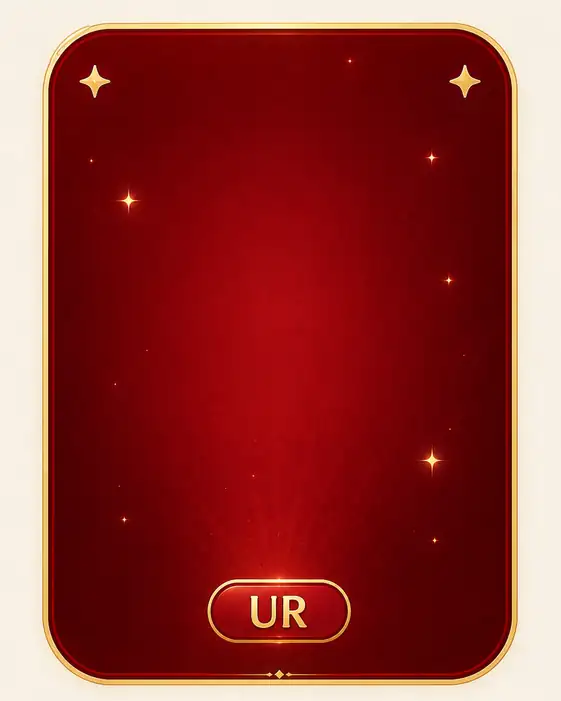
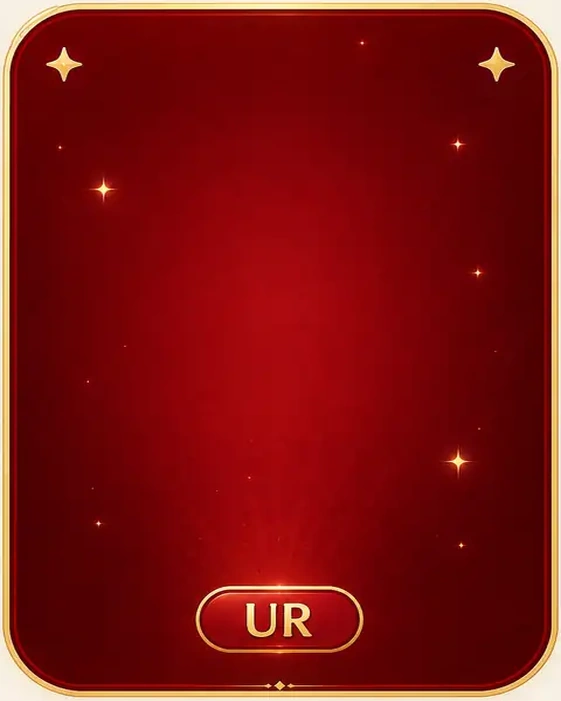
N/R/SR/SSR/UR画像から余白をトリミングし、CSS側の歪む拡大率を全レアリティ廃止
各フレーム画像に焼き込まれていた不透明なクリーム色の余白（縦横7〜9%程度、
四隅の丸みの外側含む）を色差分で検出してトリミングし、561x701キャンバスに
リサイズし直した。これにより「余白を消すため」だけに使われていた
scaleX(1.18) scaleY(1.06)という横方向だけ大きい非対称倍率が不要になったため、
全レアリティ共通で歪みのない均等倍率scale(1.02)に統一した。

diff --git a/src/components/collection/collection-ui.tsx b/src/components/collection/collection-ui.tsx
@@ -57,18 +57,18 @@ const RARITY_FRAME_PATHS: Record<GachaRarity, string> = {
 };
 
 /**
- * フレーム画像を敷くときの拡大率。N〜URの画像は不透明なクリーム色の
- * 余白が絵の中に焼き込まれており（透過ではない）、scaleX(1.18) scaleY(1.06)
- * はその余白を除去するために正しくチューニングされた値。
- * LRの画像だけは透過PNGで余白がほぼ0のため、同じ倍率をかけると
- * 絵柄が横方向に歪んで伸びて見える。LRだけ歪みのない均等倍率にする。
+ * フレーム画像を敷くときの拡大率。以前はN〜URの画像に不透明な
+ * クリーム色の余白が焼き込まれており、scaleX(1.18) scaleY(1.06)という
+ * 横だけ大きい非対称倍率でそれを除去していたが、絵柄が横方向に歪む
+ * 副作用があった。画像側の余白を全レアリティ分トリミング済みのため、
+ * 全レアリティ共通で歪みのない均等倍率にする。
  */
 const RARITY_FRAME_SCALE: Record<GachaRarity, string> = {
-  N: "scaleX(1.18) scaleY(1.06)",
-  R: "scaleX(1.18) scaleY(1.06)",
-  SR: "scaleX(1.18) scaleY(1.06)",
-  SSR: "scaleX(1.18) scaleY(1.06)",
-  UR: "scaleX(1.18) scaleY(1.06)",
+  N: "scale(1.02)",
+  R: "scale(1.02)",
+  SR: "scale(1.02)",
+  SSR: "scale(1.02)",
+  UR: "scale(1.02)",
   LR: "scale(1.02)",
 };
 

diff --git a/src/components/gacha-section.tsx b/src/components/gacha-section.tsx
@@ -43,13 +43,13 @@ const RARITY_FRAME_PATHS: Record<GachaRarity, string> = {
   LR: "/collection/rarity-frames/lr.webp",
 };
 
-/** N〜URの画像は不透明なクリーム色の余白が焼き込まれており、scaleX(1.18) scaleY(1.06)はそれを除去するための値。LRだけ透過PNGで余白がほぼ0のため均等倍率にする。 */
+/** 全レアリティのフレーム画像とも余白をトリミング済みのため、歪みのない均等倍率にする。 */
 const RARITY_FRAME_SCALE: Record<GachaRarity, string> = {
-  N: "scaleX(1.18) scaleY(1.06)",
-  R: "scaleX(1.18) scaleY(1.06)",
-  SR: "scaleX(1.18) scaleY(1.06)",
-  SSR: "scaleX(1.18) scaleY(1.06)",
-  UR: "scaleX(1.18) scaleY(1.06)",
+  N: "scale(1.02)",
+  R: "scale(1.02)",
+  SR: "scale(1.02)",
+  SSR: "scale(1.02)",
+  UR: "scale(1.02)",
   LR: "scale(1.02)",
 };
 
